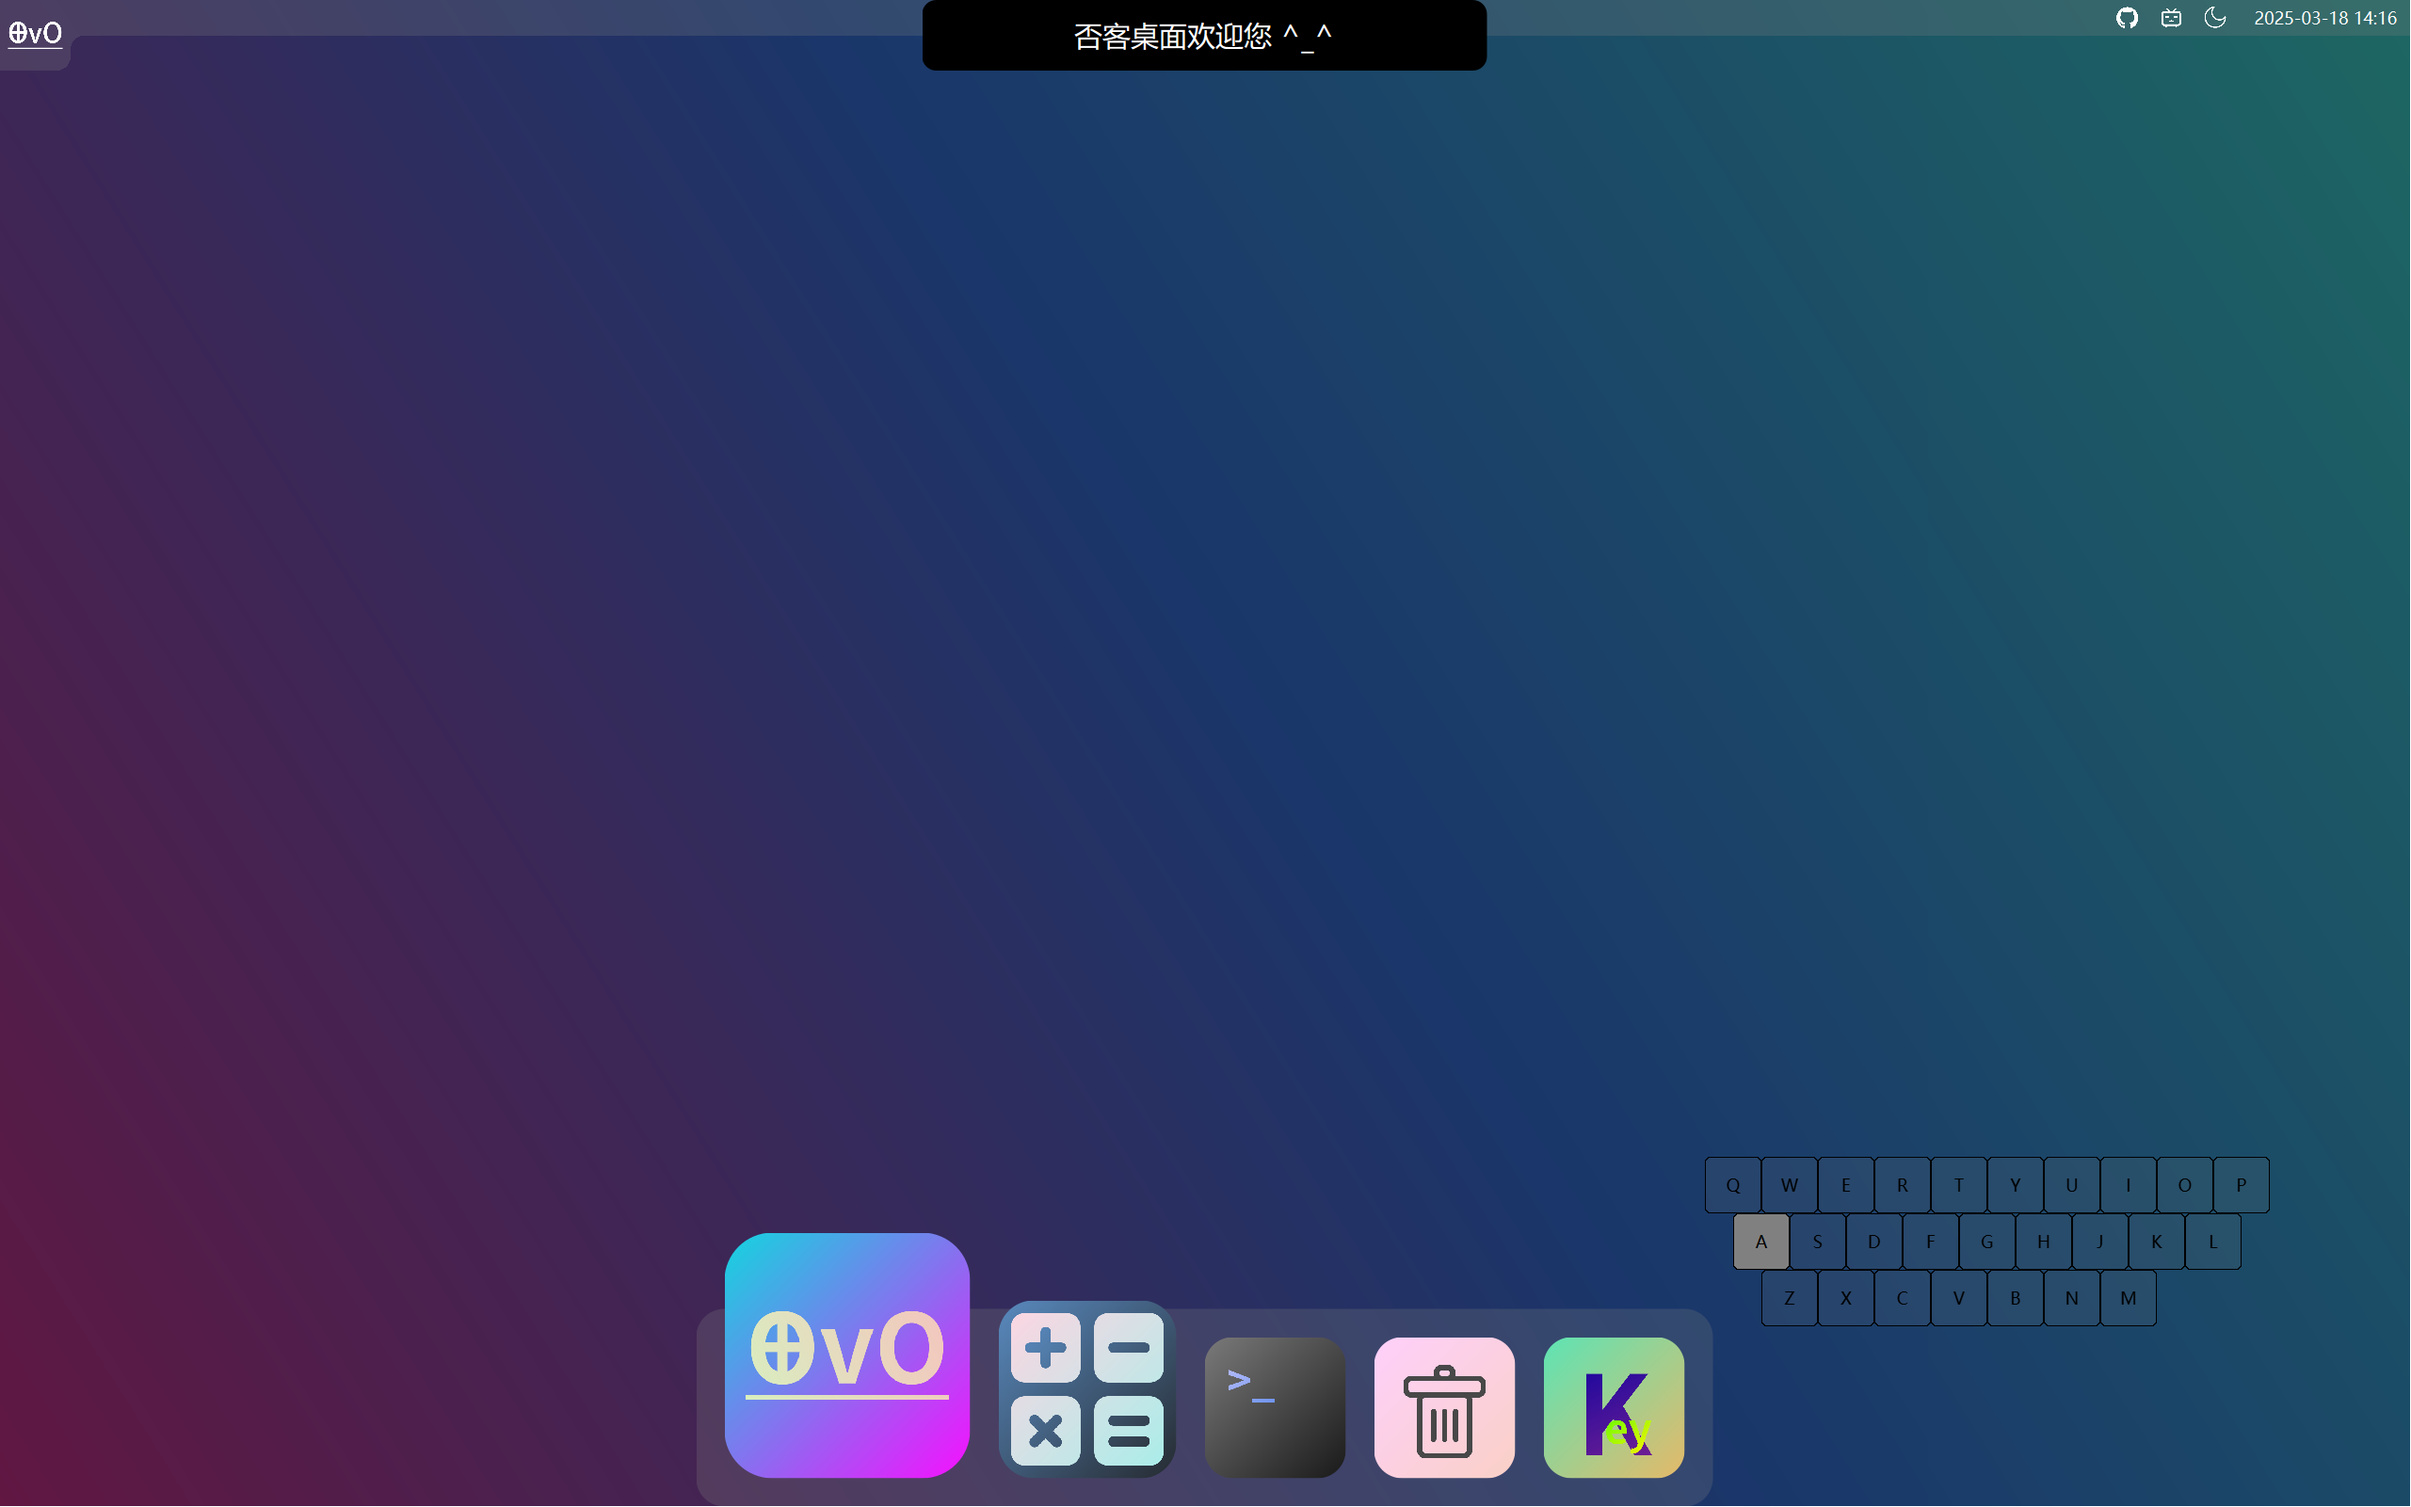
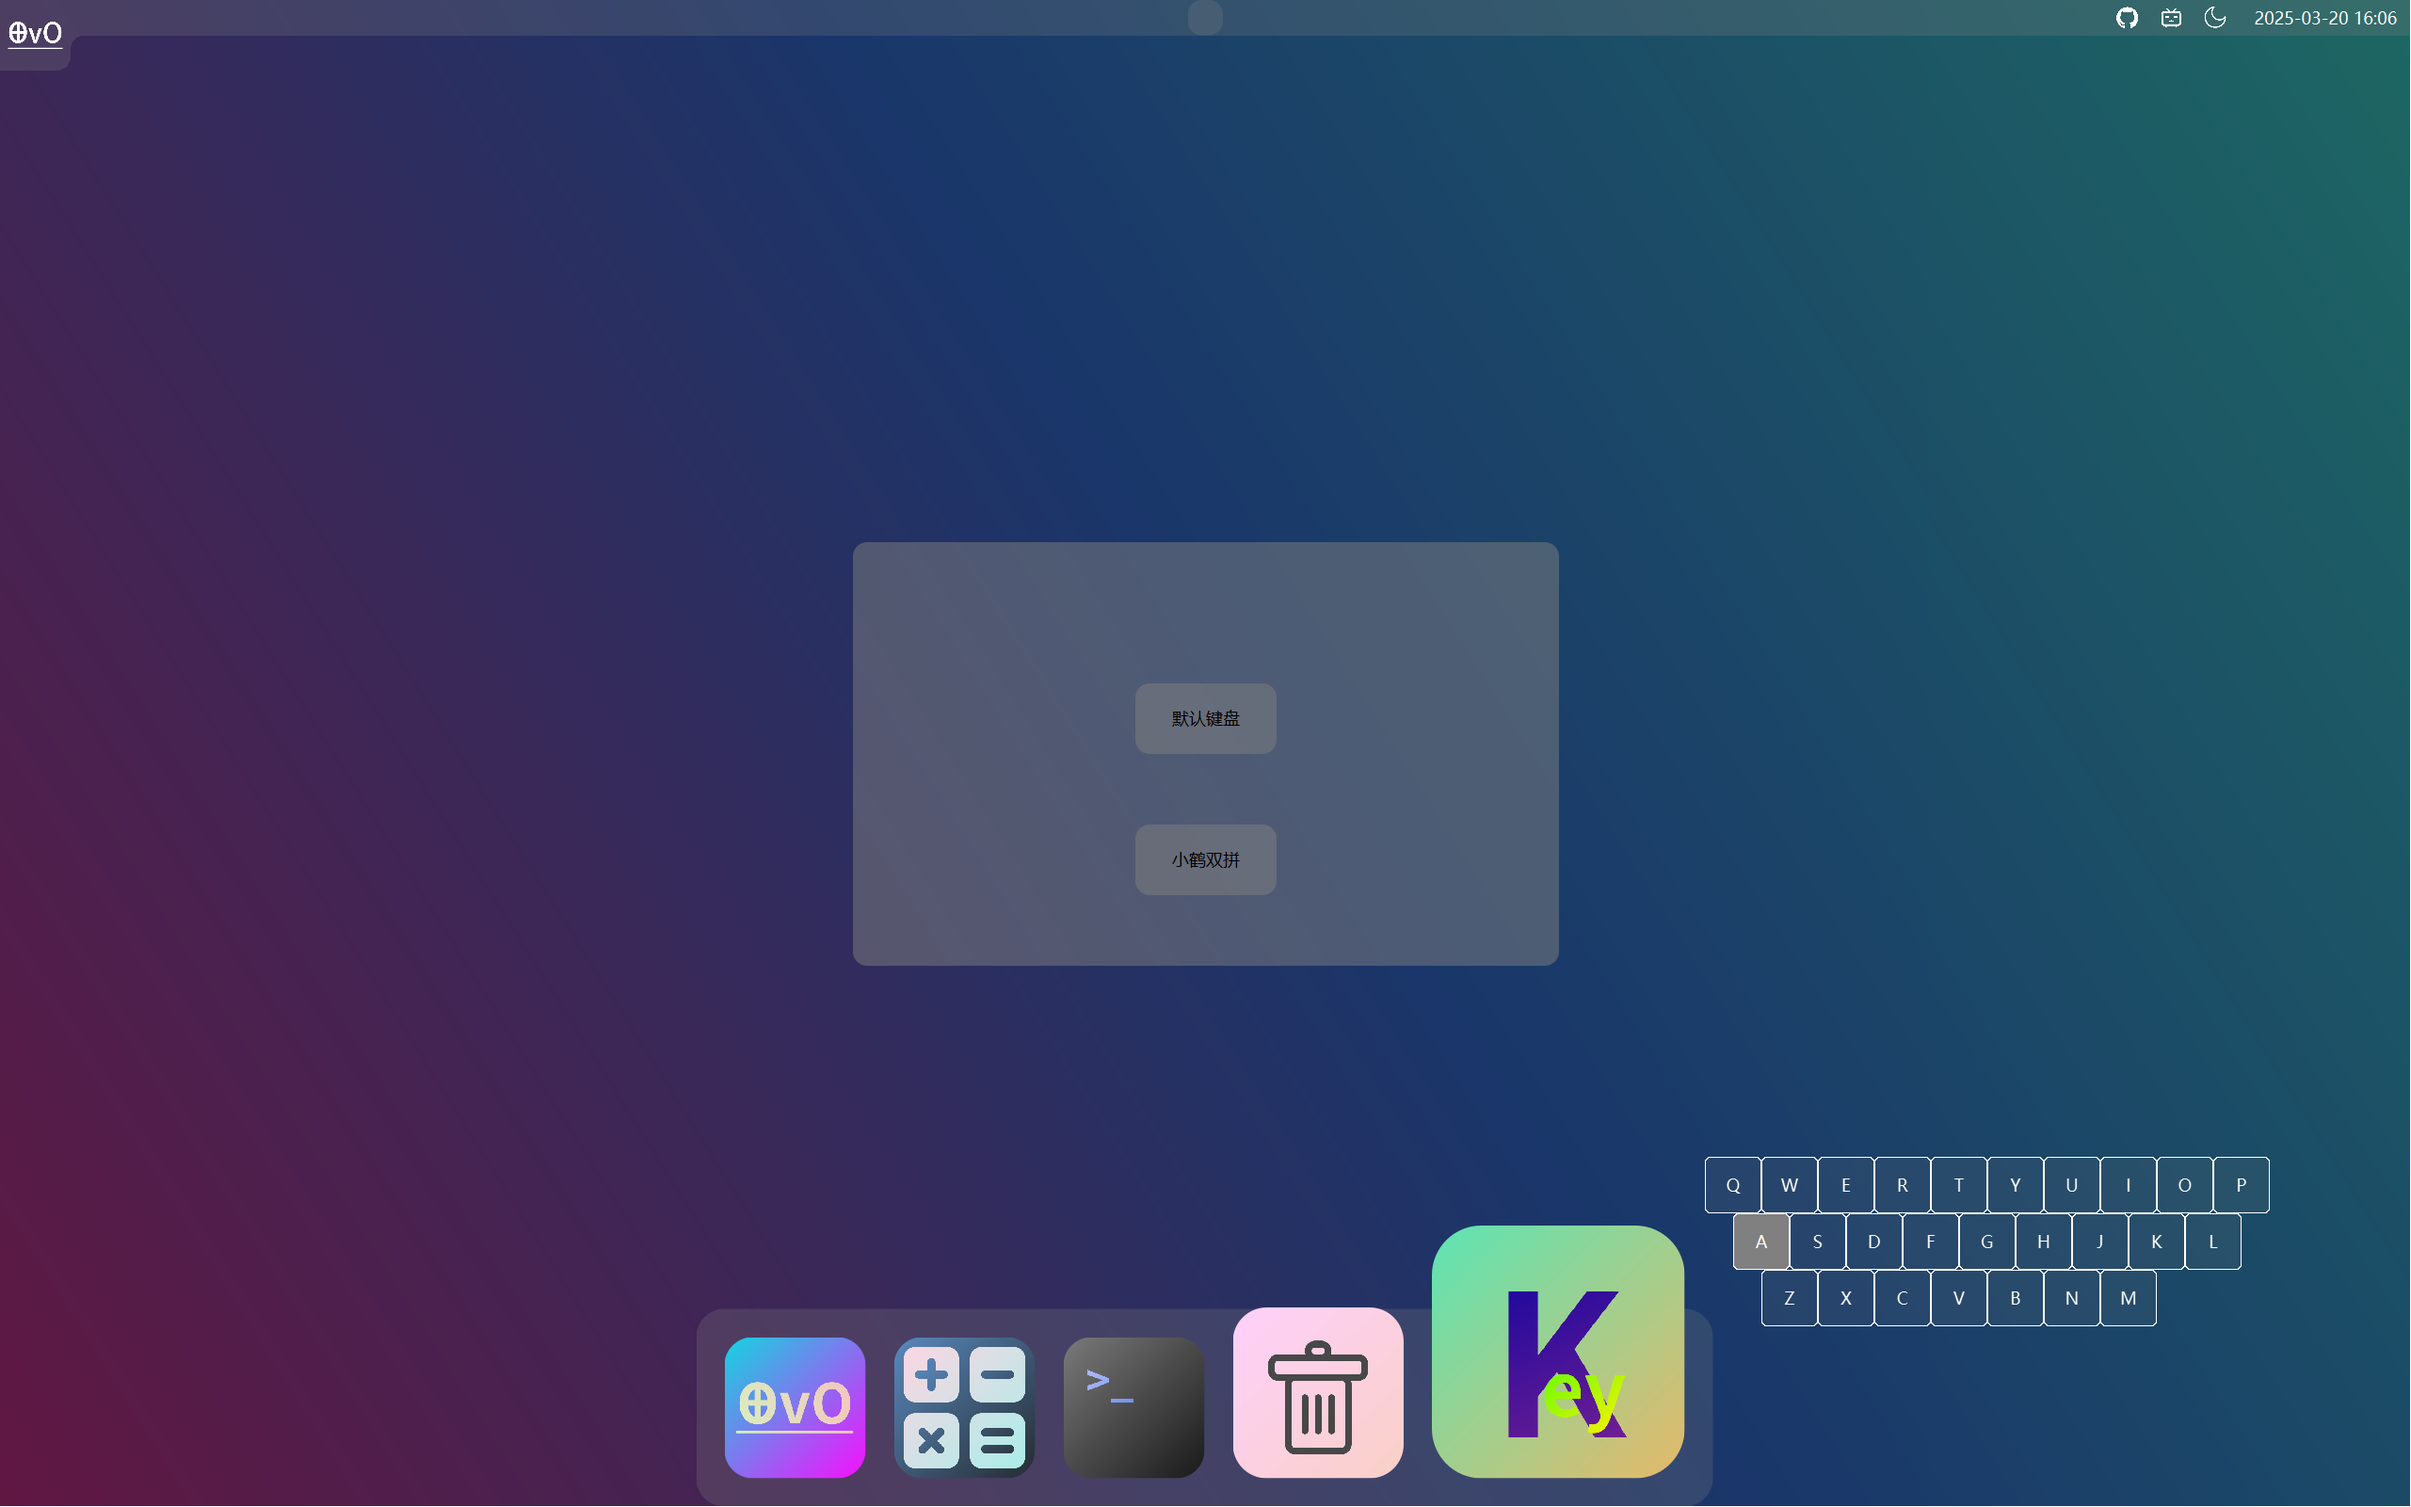
修改键盘设置界面

diff --git a/software/keyboardsetting.cpp b/software/keyboardsetting.cpp
@@ -9,7 +9,7 @@ KeyboardSetting::KeyboardSetting(QWidget *parent)
 {
     setFixedSize(500, 300);
     setAttribute(Qt::WA_StyledBackground);
-    setStyleSheet("background-color: #ffffff");
+    setStyleSheet("background-color: #80808080; border-radius: 10px;");
 
     m_defaultButton = new QPushButton("默认键盘", this);
     m_defaultButton->setGeometry(200, 100, 100, 50);
